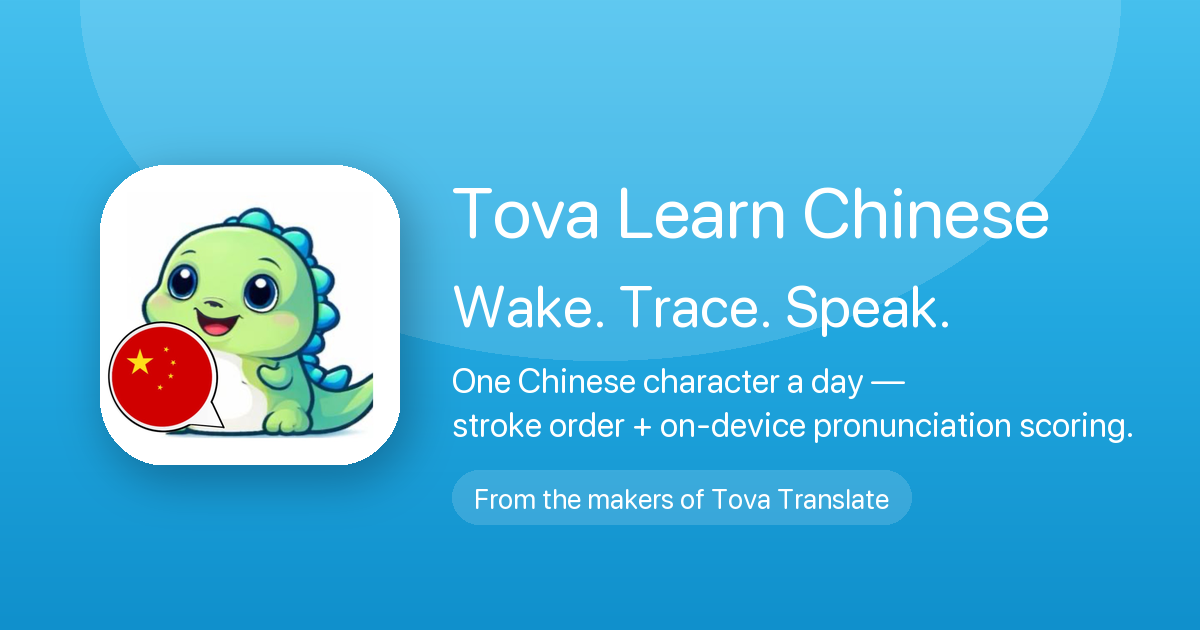
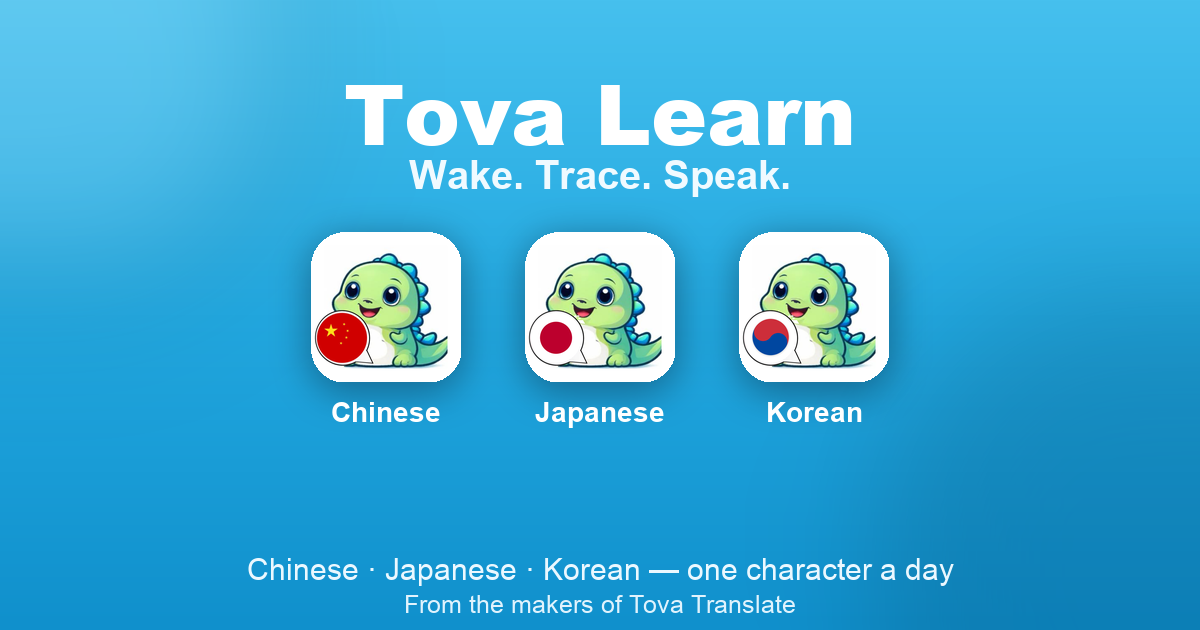
Rebrand /learn/ to the Tova Learn family (zh/ja/ko) + footer links
Generalize the learn page from Chinese-only to the multi-language
family: title/meta/OG/JSON-LD, FAQ, feature list, and the footer
links on both index.html and learn/index.html now say 'Tova Learn'.
Regenerated og-learn.png; added build_og_family.py generator.

diff --git a/learn/index.html b/learn/index.html
@@ -3,9 +3,9 @@
 <head>
 <meta charset="utf-8">
 <meta name="viewport" content="width=device-width, initial-scale=1">
-<title>Tova Learn Chinese — Wake. Trace. Speak. A daily Mandarin drill.</title>
-<meta name="description" content="Tova Learn Chinese — wake up to one Chinese character, trace every stroke, speak the phrase aloud. On-device Whisper pronunciation scoring + Make Me a Hanzi stroke order. From the makers of Tova Translate.">
-<meta name="keywords" content="Tova Learn Chinese, learn Chinese app, Mandarin learning app, Chinese character app, stroke order app, Chinese pronunciation, HSK 1 app, daily Chinese drill, daily Chinese reminder, Make Me a Hanzi, Whisper Chinese STT">
+<title>Tova Learn — Chinese, Japanese &amp; Korean, one character a day</title>
+<meta name="description" content="Tova Learn — daily language-drill apps for Chinese, Japanese and Korean. Trace every stroke in order, say it aloud, and get scored on-device. From the makers of Tova Translate.">
+<meta name="keywords" content="Tova Learn, learn Chinese app, learn Japanese app, learn Korean app, Mandarin, kanji, hiragana, katakana, hangul, stroke order app, pinyin, romaji, HSK, JLPT, TOPIK, language learning app, daily language drill">
 <meta name="robots" content="index, follow, max-image-preview:large, max-snippet:-1">
 <meta name="googlebot" content="index, follow">
 <meta name="theme-color" content="#22A8E0">
@@ -14,19 +14,19 @@
 <link rel="apple-touch-icon" href="/learn/assets/tova-learn-icon.png">
 
 <meta property="og:site_name" content="Tova Translate">
-<meta property="og:title" content="Tova Learn Chinese — Wake. Trace. Speak.">
-<meta property="og:description" content="A daily Mandarin drill from the makers of Tova Translate. Stroke order, on-device pronunciation scoring, daily reminder.">
+<meta property="og:title" content="Tova Learn — Chinese, Japanese &amp; Korean">
+<meta property="og:description" content="Daily language drills for Chinese, Japanese and Korean — trace every stroke, say it aloud, and get scored on-device. From the makers of Tova Translate.">
 <meta property="og:type" content="website">
 <meta property="og:url" content="https://tovatranslate.app/learn/">
 <meta property="og:image" content="https://tovatranslate.app/learn/assets/og-learn.png">
 <meta property="og:image:width" content="1200">
 <meta property="og:image:height" content="630">
-<meta property="og:image:alt" content="Tova Learn Chinese — Wake. Trace. Speak.">
+<meta property="og:image:alt" content="Tova Learn — daily Chinese, Japanese and Korean language drills">
 <meta property="og:locale" content="en_US">
 
 <meta name="twitter:card" content="summary_large_image">
-<meta name="twitter:title" content="Tova Learn Chinese — Wake. Trace. Speak.">
-<meta name="twitter:description" content="A daily Mandarin drill from the makers of Tova Translate.">
+<meta name="twitter:title" content="Tova Learn — Chinese, Japanese &amp; Korean">
+<meta name="twitter:description" content="Daily language drills for Chinese, Japanese and Korean — trace, speak, and get scored on-device.">
 <meta name="twitter:image" content="https://tovatranslate.app/learn/assets/og-learn.png">
 
 <script type="application/ld+json">
@@ -36,12 +36,12 @@
     {
       "@type": "MobileApplication",
       "@id": "https://tovatranslate.app/learn/#app",
-      "name": "Tova Learn Chinese",
-      "alternateName": ["Tova Learn", "Learn Chinese with Tova"],
+      "name": "Tova Learn",
+      "alternateName": ["Tova Learn Chinese", "Tova Learn Japanese", "Tova Learn Korean"],
       "operatingSystem": "iOS",
       "applicationCategory": "EducationalApplication",
       "applicationSubCategory": "Language Learning",
-      "description": "A daily Mandarin drill: wake to one Chinese character, trace every stroke in the correct order, then speak the phrase aloud and get scored by on-device Whisper. Stroke validation uses Make Me a Hanzi median paths. From the makers of Tova Translate.",
+      "description": "Tova Learn is a family of daily language-drill apps for Chinese, Japanese and Korean. Each day you meet one character, trace every stroke in order, then say it aloud and get scored on-device by OpenAI Whisper, with the reading (pinyin, romaji or romaja) shown for every character. From the makers of Tova Translate.",
       "url": "https://tovatranslate.app/learn/",
       "image": "https://tovatranslate.app/learn/assets/og-learn.png",
       "screenshot": [
@@ -50,7 +50,7 @@
         "https://tovatranslate.app/learn/assets/store_speak.png",
         "https://tovatranslate.app/learn/assets/store_progress.png"
       ],
-      "inLanguage": "en",
+      "inLanguage": ["en", "zh", "ja", "ko"],
       "publisher": {"@id": "https://tovatranslate.app/#org"},
       "offers": [
         {"@type": "Offer", "price": "0", "priceCurrency": "USD", "category": "free"},
@@ -58,12 +58,23 @@
         {"@type": "Offer", "name": "Tova Learn Pro (Annual)", "price": "39.99", "priceCurrency": "USD", "category": "subscription"}
       ],
       "featureList": [
-        "One HSK 1 Chinese character per day, with pinyin and meaning",
-        "Guided finger tracing validated against Make Me a Hanzi stroke order",
+        "One character a day with its reading (pinyin, romaji or romaja) and meaning",
+        "Guided finger tracing validated against authentic stroke order",
         "Animated stroke-order playback for every character",
         "On-device pronunciation scoring via OpenAI Whisper — audio never leaves the phone",
-        "Daily streaks and a Stroke Studio of every character learned",
-        "Pulls saved phrases from Tova Translate via an on-device App Group"
+        "Daily streaks and a studio of every character learned",
+        "Pulls saved phrases from Tova Translate via an on-device App Group",
+        "Three apps: Chinese (HSK), Japanese (JLPT) and Korean (TOPIK)"
+      ]
+    },
+    {
+      "@type": "ItemList",
+      "@id": "https://tovatranslate.app/learn/#apps",
+      "name": "The Tova Learn family",
+      "itemListElement": [
+        {"@type": "ListItem", "position": 1, "item": {"@type": "MobileApplication", "name": "Tova Learn Chinese", "operatingSystem": "iOS", "applicationCategory": "EducationalApplication", "description": "Learn Mandarin one character a day — HSK, Hanyu Pinyin, stroke order, on-device pronunciation."}},
+        {"@type": "ListItem", "position": 2, "item": {"@type": "MobileApplication", "name": "Tova Learn Japanese", "operatingSystem": "iOS", "applicationCategory": "EducationalApplication", "description": "Learn Japanese one character a day — Hiragana, Katakana, JLPT kanji, romaji, stroke order, on-device pronunciation."}},
+        {"@type": "ListItem", "position": 3, "item": {"@type": "MobileApplication", "name": "Tova Learn Korean", "operatingSystem": "iOS", "applicationCategory": "EducationalApplication", "description": "Learn Korean one character a day — Hangul, TOPIK, romaja, stroke order, on-device pronunciation (planned)."}}
       ]
     },
     {
@@ -73,15 +84,15 @@
         {"@type": "Question", "name": "Is there an alarm, and does it replace my iOS alarm clock?", "acceptedAnswer": {"@type": "Answer", "text": "It's a daily reminder, not an alarm. Pick a time in Settings and Tova Learn Chinese sends a local notification; tap it to open that day's character. Apple doesn't let apps replace the built-in alarm clock, so this is a gentle scheduled nudge — not a loud alarm sound."}},
         {"@type": "Question", "name": "How does the pronunciation scoring work?", "acceptedAnswer": {"@type": "Answer", "text": "OpenAI Whisper Tiny runs on your device using the Apple Neural Engine. Your microphone audio never leaves your phone. The transcript is matched against the target phrase character-by-character to produce a score."}},
         {"@type": "Question", "name": "Why only HSK 1 at launch?", "acceptedAnswer": {"@type": "Answer", "text": "HSK 1 is 150 characters — about 150 days of daily content, enough to validate the loop before expanding. HSK 2-6 are queued as a Pro content drop, and custom phrase packs from your Tova Translate Favourites also fill the queue."}},
-        {"@type": "Question", "name": "Will there be a Tova Learn Japanese or Korean?", "acceptedAnswer": {"@type": "Answer", "text": "Yes — Japanese kanji (with KanjiVG) and Korean Hangul are planned as separate apps under the Tova Learn family, sharing the same Whisper backbone and brand. Mandarin first to nail the loop."}},
-        {"@type": "Question", "name": "What's the connection to Tova Translate?", "acceptedAnswer": {"@type": "Answer", "text": "Same team, same brand family. Tova Translate's saved Favourites become Tova Learn Chinese's content queue automatically when both apps are installed. The Learn this button on Tova Translate result cards deep-links into a Tova Learn Chinese drill."}}
+        {"@type": "Question", "name": "Is Tova Learn available for Japanese and Korean?", "acceptedAnswer": {"@type": "Answer", "text": "Tova Learn Japanese is built and coming (Hiragana, Katakana and JLPT kanji), and Tova Learn Korean (Hangul, TOPIK) is planned. Each is a separate app under the Tova Learn family, sharing the same trace-and-speak engine and on-device Whisper pronunciation scoring."}},
+        {"@type": "Question", "name": "What's the connection to Tova Translate?", "acceptedAnswer": {"@type": "Answer", "text": "Same team, same brand family. Your saved Favourites in Tova Translate become a study queue in the matching Tova Learn app. The Learn this button on a Chinese, Japanese or Korean result card deep-links straight into a drill."}}
       ]
     },
     {
       "@type": "BreadcrumbList",
       "itemListElement": [
         {"@type": "ListItem", "position": 1, "name": "Home", "item": "https://tovatranslate.app/"},
-        {"@type": "ListItem", "position": 2, "name": "Tova Learn Chinese", "item": "https://tovatranslate.app/learn/"}
+        {"@type": "ListItem", "position": 2, "name": "Tova Learn", "item": "https://tovatranslate.app/learn/"}
       ]
     }
   ]
@@ -700,8 +711,8 @@
         <p>HSK 1 is 150 characters — about 150 days of daily content, which is enough to validate the loop before expanding. HSK 2-6 are queued as a Pro content drop. Custom phrase packs from your Tova Translate Favourites also fill the queue.</p>
       </div>
       <div class="faq-item">
-        <h3>Will there be a Tova Learn Japanese or Korean?</h3>
-        <p>Yes — Japanese kanji (with KanjiVG) and Korean Hangul are planned as separate apps under the Tova Learn family, sharing the same Whisper backbone and brand. Mandarin first to nail the loop.</p>
+        <h3>Is Tova Learn available for Japanese and Korean?</h3>
+        <p>Tova Learn Japanese is built and coming (Hiragana, Katakana &amp; JLPT kanji), and Tova Learn Korean (Hangul, TOPIK) is planned. Each is a separate app under the Tova Learn family, sharing the same trace-and-speak engine and on-device Whisper pronunciation scoring.</p>
       </div>
       <div class="faq-item">
         <h3>What's the connection to Tova Translate?</h3>
@@ -714,7 +725,7 @@
 <footer>
   <div class="footer-links">
     <a href="/">Tova Translate</a>
-    <a href="/learn/">Tova Learn Chinese</a>
+    <a href="/learn/">Tova Learn</a>
     <a href="/privacy">Privacy</a>
     <a href="/terms">Terms</a>
     <a href="/support">Support</a>

diff --git a/index.html b/index.html
@@ -1463,7 +1463,7 @@
 <footer class="footer-band">
   <div class="footer-band-inner">
     <div>
-      <a href="/learn/">Tova Learn Chinese</a>
+      <a href="/learn/">Tova Learn</a>
       <a href="/support">Support</a>
       <a href="/faq/">FAQ</a>
       <a href="/press/">Press</a>

diff --git a/learn/assets/build_og_family.py b/learn/assets/build_og_family.py
@@ -1,0 +1,50 @@
+#!/usr/bin/env python3
+"""Tova Learn family OG/social card (1200x630) — Tova Learn + 3 real app icons."""
+from PIL import Image, ImageDraw, ImageFont, ImageFilter
+
+W, H = 1200, 630
+OUT = "og-learn.png"  # overwrite the existing OG card (referenced by the page)
+CN = "tova-learn-icon.png"
+JA = "tova-learn-japanese-icon.png"
+KO = "tova-learn-korean-icon.png"
+TEAL=(34,168,224); TEALB=(70,192,238); TEALD=(16,144,204); WHITE=(255,255,255)
+BLACK="/System/Library/Fonts/Supplemental/Arial Black.ttf"
+BOLD="/System/Library/Fonts/Supplemental/Arial Bold.ttf"
+REG="/System/Library/Fonts/Supplemental/Arial.ttf"
+def F(p,s): return ImageFont.truetype(p,s)
+def tw(d,t,f): b=d.textbbox((0,0),t,font=f); return b[2]-b[0]
+def ctr(d,t,f,cx,y,fill): d.text((cx-tw(d,t,f)/2,y),t,font=f,fill=fill)
+
+img=Image.new("RGB",(W,H)); px=img.load()
+for y in range(H):
+    t=y/(H-1)
+    c=(tuple(int(TEALB[i]+(TEAL[i]-TEALB[i])*(t*2)) for i in range(3)) if t<.5
+       else tuple(int(TEAL[i]+(TEALD[i]-TEAL[i])*((t-.5)*2)) for i in range(3)))
+    for x in range(W): px[x,y]=c
+img=img.convert("RGBA")
+ov=Image.new("RGBA",(W,H),(0,0,0,0)); od=ImageDraw.Draw(ov)
+od.ellipse([-150,-150,300,300],fill=(255,255,255,34))
+od.ellipse([W-300,H-320,W+160,H+140],fill=(0,70,110,60))
+img=Image.alpha_composite(img,ov.filter(ImageFilter.GaussianBlur(70)))
+d=ImageDraw.Draw(img)
+
+ctr(d,"Tova Learn",F(BLACK,84),W/2,52,WHITE)
+ctr(d,"Wake. Trace. Speak.",F(BOLD,40),W/2,152,(240,250,255))
+
+S=150; GAP=64; total=S*3+GAP*2; sx=(W-total)/2; top=232
+def rounded(path,size,rad):
+    ic=Image.open(path).convert("RGBA").resize((size,size),Image.LANCZOS)
+    m=Image.new("L",(size,size),0); ImageDraw.Draw(m).rounded_rectangle([0,0,size,size],radius=rad,fill=255)
+    o=Image.new("RGBA",(size,size),(0,0,0,0)); o.paste(ic,(0,0),m); return o
+sh=Image.new("RGBA",(W,H),(0,0,0,0)); sd=ImageDraw.Draw(sh)
+for i in range(3):
+    x=sx+i*(S+GAP); sd.rounded_rectangle([x,top+8,x+S,top+S+8],radius=34,fill=(8,30,54,110))
+img=Image.alpha_composite(img,sh.filter(ImageFilter.GaussianBlur(18))); d=ImageDraw.Draw(img)
+labels=["Chinese","Japanese","Korean"]
+for i,(p,lab) in enumerate(zip([CN,JA,KO],labels)):
+    x=int(sx+i*(S+GAP)); img.alpha_composite(rounded(p,S,34),(x,top))
+    d=ImageDraw.Draw(img); ctr(d,lab,F(BOLD,28),x+S/2,top+S+14,WHITE)
+ctr(d,"Chinese · Japanese · Korean — one character a day",F(REG,30),W/2,H-78,(235,248,255))
+ctr(d,"From the makers of Tova Translate",F(REG,25),W/2,H-40,(225,243,253))
+img.convert("RGB").save(OUT)
+print("wrote",OUT,img.size)
